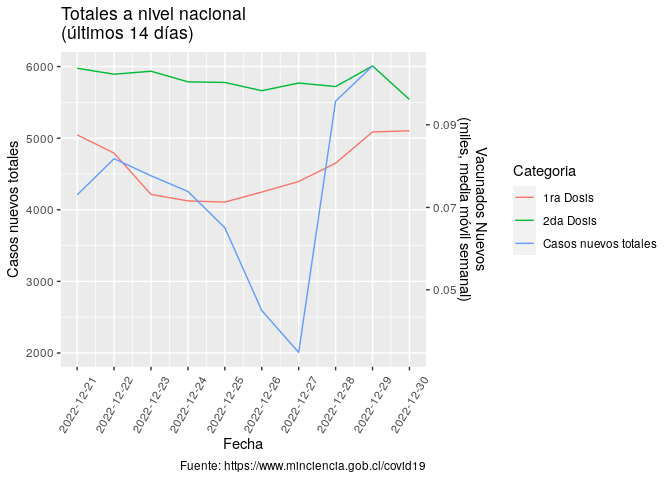
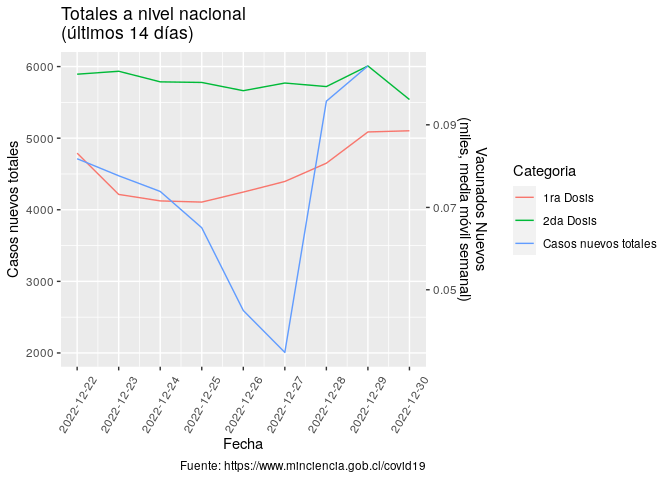
Re-build Rmarkdown files

diff --git a/README.md b/README.md
@@ -3,7 +3,7 @@
 
 Ejemplo de uso de total\_casos de COVID recopilados por el Ministerio de
 Ciencia de Chile <https://www.minciencia.gob.cl/covid19>. Última
-actualización: 2023-01-03
+actualización: 2023-01-04
 
 ## Visualización desde el comienzo de la pandemia
 
